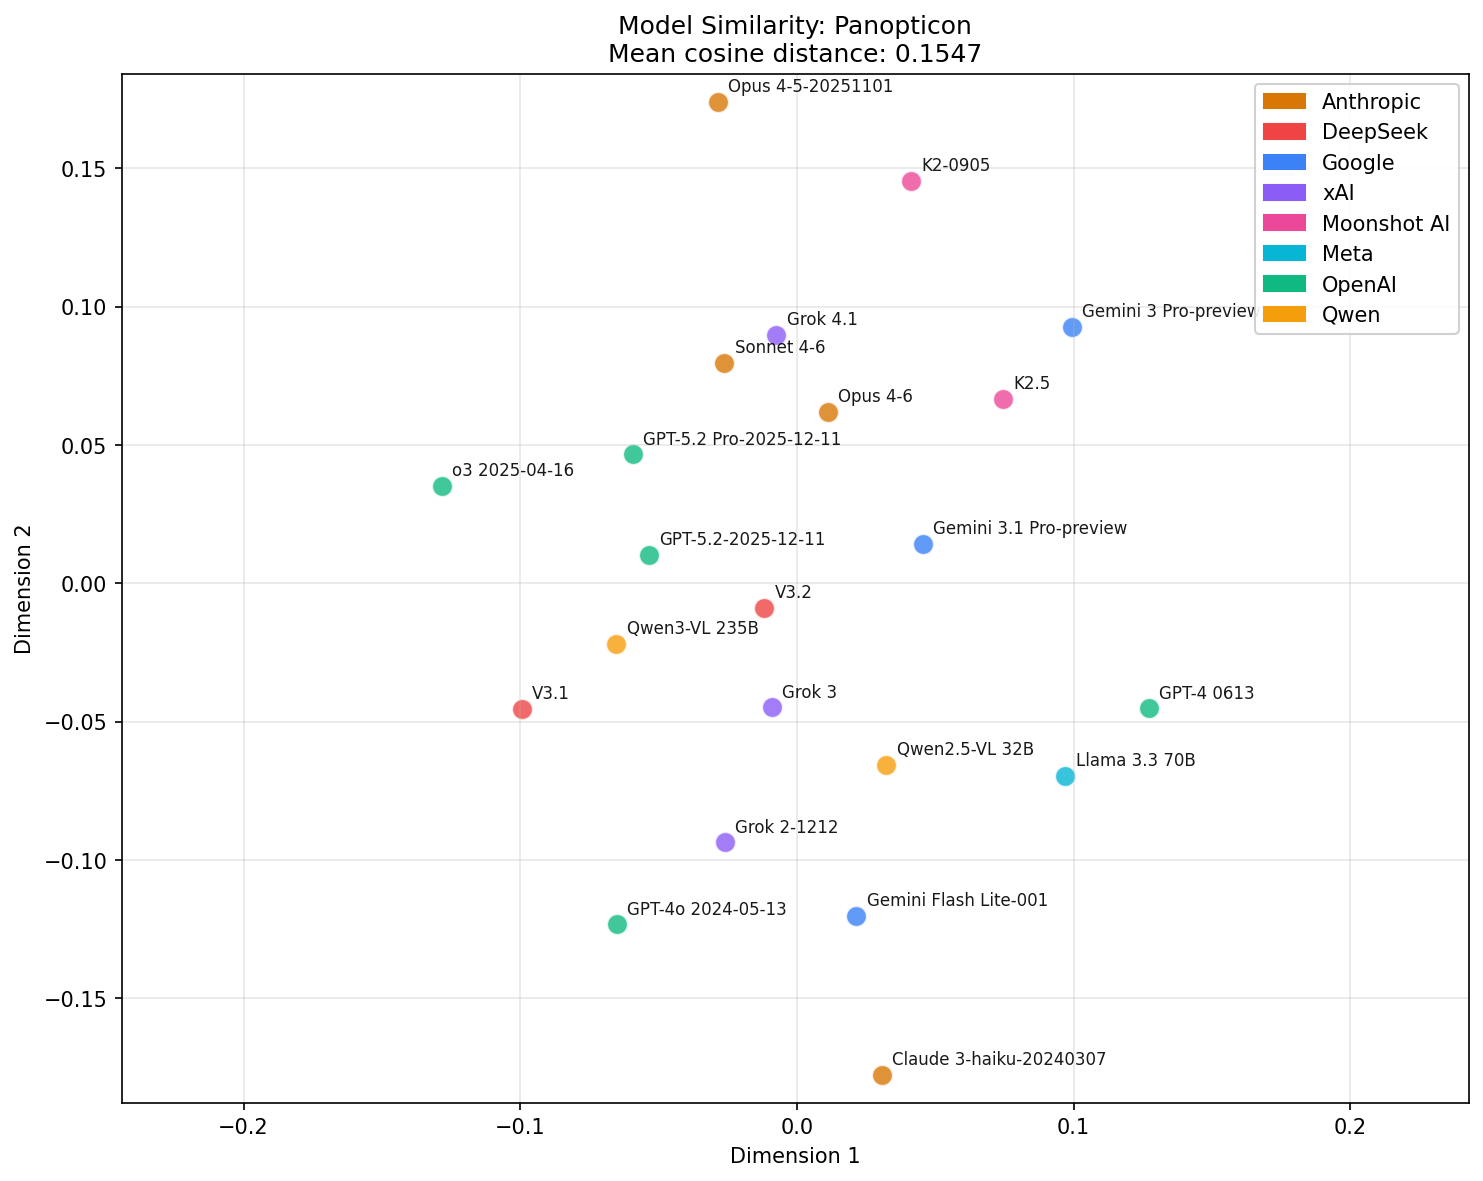
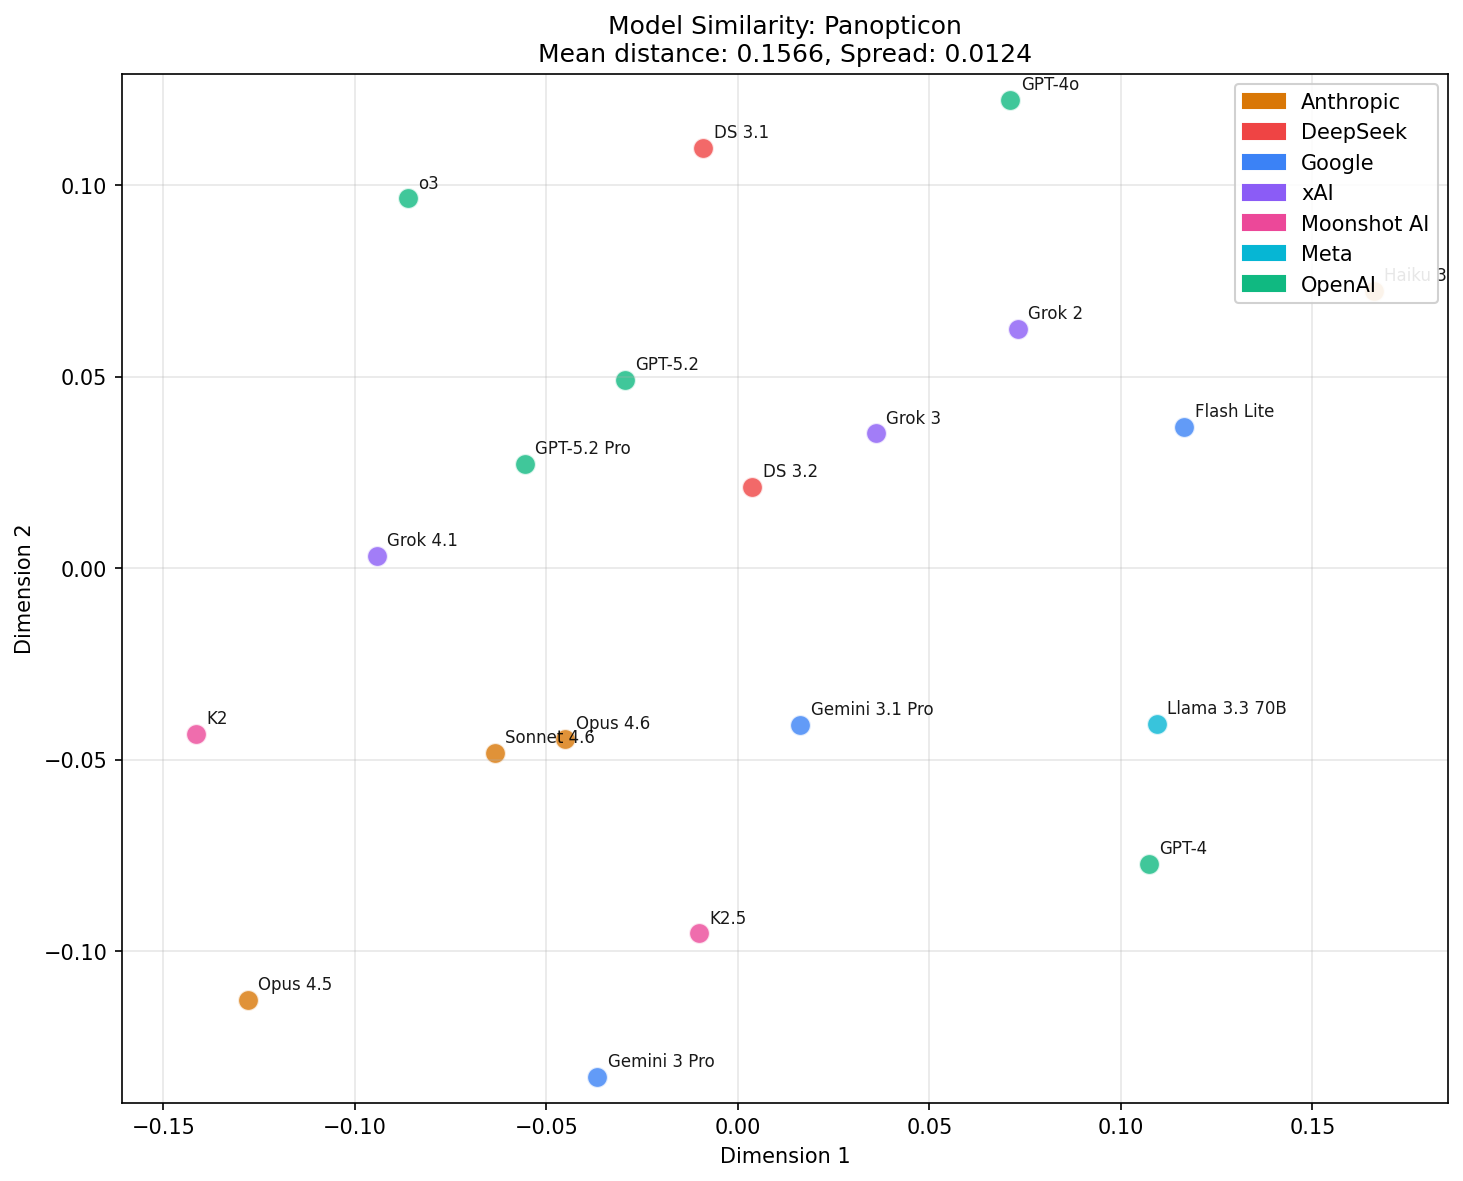
Recreate minimal one-figure version
-- now I'm looking to the generate_maps script - I think that's actually a special case of the comparison. Let's make sure, and then let's delete the maps script and instead make a flag in the comparison for something where we just visualize the philosophy puzzle(s). (Obviously when there's no comparison, we don't need to rescale to make it match a non-existent comparison). Then let's document that in generate_comparison and in spec

-- m, isn't our chunking, and the embeddings, and MDS deterministic? The rotation/reflection of the philosophy positions-only chart is diff than the comparison. And the values are slightly different too

-- Ohh, that makes sense. Hm, I'm not sure what to do there. Let's filter to common models for the --philosophy-only plot too, then they should be directly comparable.

diff --git a/scripts/generate_comparison.py b/scripts/generate_comparison.py
@@ -1,9 +1,16 @@
-"""Generate side-by-side comparison of baseline vs philosophy maps.
+"""Generate model similarity visualizations.
 
 Usage:
+    # Side-by-side comparison of baseline vs philosophy responses
     python -m scripts.generate_comparison panopticon
     python -m scripts.generate_comparison panopticon sapir_whorf  # multiple puzzles
-    python -m scripts.generate_comparison panopticon --output analysis/figures/comparison.png
+
+    # Philosophy-only mode (no baseline comparison, no rescaling)
+    python -m scripts.generate_comparison panopticon --philosophy-only
+    python -m scripts.generate_comparison panopticon sapir_whorf --philosophy-only
+
+    # Custom output path
+    python -m scripts.generate_comparison panopticon --output analysis/figures/custom.png
 """
 
 from __future__ import annotations
@@ -25,7 +32,7 @@ from analysis.distances import (
     save_points,
     load_points,
 )
-from analysis.visualize import plot_comparison
+from analysis.visualize import plot_comparison, plot_model_map
 
 
 ROOT = Path(__file__).resolve().parents[1]
@@ -33,6 +40,121 @@ RESPONSES_DIR = ROOT / "responses"
 BASELINES_DIR = ROOT / "baselines" / "responses"
 CACHE_DIR = ROOT / "analysis" / "embeddings"
 FIGURES_DIR = ROOT / "analysis" / "figures"
+
+
+def _run_philosophy_only(
+    puzzle_names: list[str],
+    puzzle_slug: str,
+    output_path: Path,
+    cache_dir: Path | None,
+    recompute_points: bool,
+    show: bool,
+) -> None:
+    """Generate philosophy-only map without baseline comparison.
+
+    Filters to models that have both baseline and philosophy responses
+    (same as comparison mode) so the results are directly comparable.
+    No rescaling is applied since there's no baseline to match.
+    """
+    # Check for cached points
+    philosophy_points_cache = CACHE_DIR / f"points_philosophy_only_{puzzle_slug}.json"
+
+    if not recompute_points:
+        philosophy_points = load_points(philosophy_points_cache)
+
+        if philosophy_points is not None:
+            print("Using cached points (use --recompute-points to regenerate)")
+            spread = compute_spread(philosophy_points)
+            mean_dist = compute_mean_pairwise_distance_points(philosophy_points)
+
+            title = f"Model Similarity: {puzzle_slug.replace('_', ' ').title()}"
+            subtitle = f"Mean distance: {mean_dist:.4f}, Spread: {spread:.4f}"
+
+            fig = plot_model_map(
+                points=philosophy_points,
+                title=title,
+                subtitle=subtitle,
+                output_path=output_path,
+            )
+
+            if show:
+                import matplotlib.pyplot as plt
+                plt.show()
+
+            print("\nDone!")
+            return
+
+    # Load baseline model list (to filter to common models)
+    print("Loading baseline responses (for model filtering)...")
+    baseline_by_prompt = embed_baseline_responses_by_prompt(
+        baselines_dir=BASELINES_DIR,
+        cache_dir=cache_dir,
+    )
+
+    baseline_models: set[tuple[str, str]] = set()
+    for prompt_embeddings in baseline_by_prompt.values():
+        baseline_models.update(prompt_embeddings.keys())
+
+    # Load philosophy embeddings
+    print(f"Loading philosophy responses for {puzzle_names}...")
+    philosophy_by_puzzle = embed_puzzle_responses_by_puzzle(
+        responses_dir=RESPONSES_DIR,
+        puzzle_names=puzzle_names,
+        cache_dir=cache_dir,
+    )
+
+    if not philosophy_by_puzzle:
+        print(f"No philosophy responses found for puzzles: {puzzle_names}")
+        return
+
+    # Count models across puzzles
+    philosophy_models: set[tuple[str, str]] = set()
+    for puzzle_embeddings in philosophy_by_puzzle.values():
+        philosophy_models.update(puzzle_embeddings.keys())
+
+    print(f"Found {len(philosophy_models)} models across {len(philosophy_by_puzzle)} puzzles")
+
+    # Filter to common models (same as comparison mode)
+    common_models = baseline_models & philosophy_models
+    print(f"{len(common_models)} models have both baseline and philosophy responses")
+
+    if len(common_models) < 2:
+        print("Need at least 2 common models for visualization.")
+        return
+
+    philosophy_filtered = {
+        puzzle: {k: v for k, v in emb.items() if k in common_models}
+        for puzzle, emb in philosophy_by_puzzle.items()
+    }
+
+    # Compute averaged distances (no rescaling needed)
+    philosophy_distances, philosophy_keys = compute_averaged_distance_matrix(philosophy_filtered)
+    mean_dist = compute_mean_pairwise_distance(philosophy_distances)
+    philosophy_points = project_to_2d(philosophy_distances, philosophy_keys)
+    spread = compute_spread(philosophy_points)
+
+    print(f"Mean cosine distance: {mean_dist:.4f}, Spread: {spread:.4f}")
+
+    # Cache computed points
+    save_points(philosophy_points, philosophy_points_cache)
+    print(f"Cached points to {philosophy_points_cache}")
+
+    # Generate plot
+    title = f"Model Similarity: {puzzle_slug.replace('_', ' ').title()}"
+    subtitle = f"Mean distance: {mean_dist:.4f}, Spread: {spread:.4f}"
+
+    fig = plot_model_map(
+        points=philosophy_points,
+        title=title,
+        subtitle=subtitle,
+        output_path=output_path,
+    )
+
+    if show:
+        import matplotlib.pyplot as plt
+        plt.show()
+
+    print("\nDone!")
 
 
 def main() -> None:
@@ -65,14 +187,38 @@ def main() -> None:
         action="store_true",
         help="Recompute MDS projection even if cached points exist",
     )
+    parser.add_argument(
+        "--philosophy-only",
+        action="store_true",
+        help="Show only philosophy map without baseline comparison (no rescaling)",
+    )
     args = parser.parse_args()
 
     puzzle_names = args.puzzles
     puzzle_slug = "_".join(puzzle_names)
-    output_path = args.output or (FIGURES_DIR / f"comparison_{puzzle_slug}.png")
     cache_dir = None if args.no_cache else CACHE_DIR
 
-    # Check for cached points
+    # Default output path depends on mode
+    if args.output:
+        output_path = args.output
+    elif args.philosophy_only:
+        output_path = FIGURES_DIR / f"{puzzle_slug}.png"
+    else:
+        output_path = FIGURES_DIR / f"comparison_{puzzle_slug}.png"
+
+    # Philosophy-only mode: skip baseline loading and rescaling
+    if args.philosophy_only:
+        _run_philosophy_only(
+            puzzle_names=puzzle_names,
+            puzzle_slug=puzzle_slug,
+            output_path=output_path,
+            cache_dir=cache_dir,
+            recompute_points=args.recompute_points,
+            show=args.show,
+        )
+        return
+
+    # Check for cached points (comparison mode)
     baseline_points_cache = CACHE_DIR / "points_baseline.json"
     philosophy_points_cache = CACHE_DIR / f"points_{puzzle_slug}.json"
 
@@ -82,8 +228,6 @@ def main() -> None:
 
         if baseline_points is not None and philosophy_points is not None:
             print("Using cached points (use --recompute-points to regenerate)")
-            baseline_spread = compute_spread(baseline_points)
-            philosophy_spread = compute_spread(philosophy_points)
 
             # Generate plot (use default titles)
             fig = plot_comparison(

diff --git a/docs/spec.md b/docs/spec.md
@@ -253,9 +253,19 @@ rm analysis/embeddings/*__baseline__*
 
 # Run baselines for specific models
 python -m scripts.run_baselines --model gpt-4-0613 gemini-2.0-flash-lite-001 o3-2025-04-16 claude-opus-4-5-20251101
+```
 
-# Generate comparison visualization
+### Generating visualizations
+```bash
+# Side-by-side comparison of baseline vs philosophy responses
+# Points are rescaled so baseline and philosophy maps share the same axis scale
 python -m scripts.generate_comparison panopticon
+python -m scripts.generate_comparison panopticon sapir_whorf  # multiple puzzles averaged
+
+# Philosophy-only mode: show just the philosophy puzzle map(s) without baseline
+# No rescaling is applied since there's no baseline to match
+python -m scripts.generate_comparison panopticon --philosophy-only
+python -m scripts.generate_comparison panopticon sapir_whorf --philosophy-only
 ```
 
 ### Embedding cache
